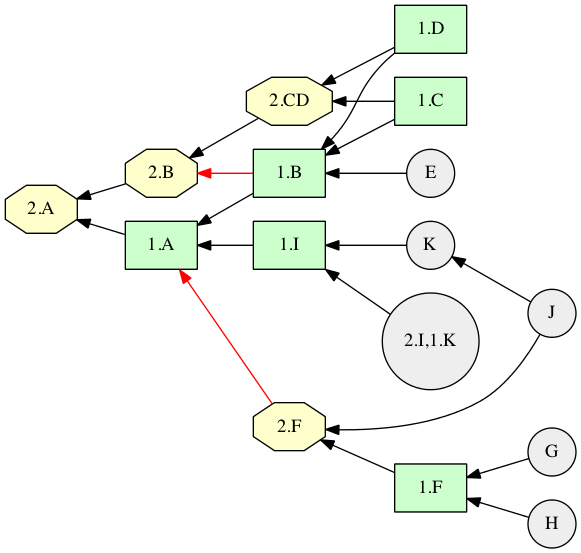
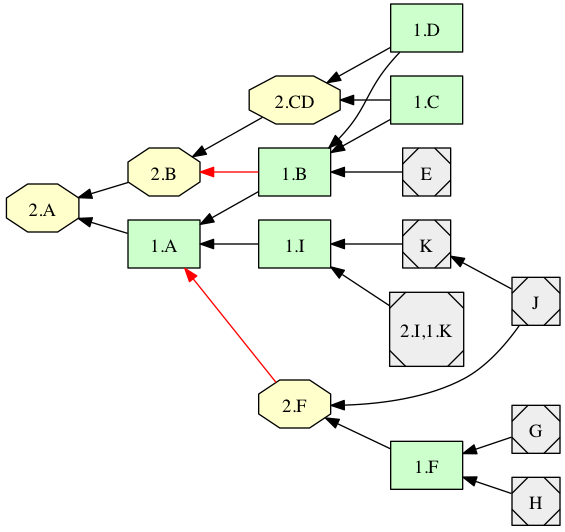
all worlds view

Changed region(s): [[0.0, 0.0, 0.9929, 0.9925]]

diff --git a/src-el/alignment.py b/src-el/alignment.py
@@ -42,6 +42,8 @@ class TaxonomyMapping:
         self.enc = encode[options.encode]      # encoding
         self.name = os.path.splitext(os.path.basename(options.inputfile))[0]
         self.taxa1name = ""
+        self.firstRcg = False
+        self.trlist = []
         if options.outputdir is None:
             options.outputdir = options.inputdir
         if not os.path.exists(options.outputdir):
@@ -359,11 +361,16 @@ class TaxonomyMapping:
         outputstr = ""
         # mirs for each pw
         if self.options.cluster: pwmirs = []
+        fAllDot = open(self.options.outputdir+self.name+"_all.dot", 'w')
         for i in range(len(pws)):
             if self.options.cluster: pwmirs.append({})
 
             # pwTm is the possible world taxonomy mapping, used for RCG
             pwTm = copy.deepcopy(self)
+            if i == 0:
+                pwTm.firstRcg = True
+            else:
+                pwTm.firstRcg = False
             if self.enc & encode["cb"]:
                 pwTm.mir = pwTm.basemir
                 pwTm.tr = []#pwTm.basetr
@@ -412,6 +419,11 @@ class TaxonomyMapping:
             if self.enc & encode["pw"] and ss == "rel" or\
                self.enc & encode["cb"] and ss == "relout":
                 pwTm.genPwRcg(name + "_" + i.__str__())
+                for e in pwTm.tr:
+                    self.trlist.append(e)
+        self.genAllPwRcg(len(pws))
+        fAllDot.close()
+        commands.getoutput("dot -Tpng "+self.options.outputdir+self.name+"_all.dot -o "+self.options.outputdir+self.name+"_all.png")
         if self.options.reduction:
             outputstr = self.uncReduction(pws)
         if pwflag:
@@ -424,7 +436,10 @@ class TaxonomyMapping:
 
     def genPwRcg(self, fileName):
         fDot = open(self.options.outputdir+fileName+".dot", 'w')
-	fDot.write("digraph {\n\nrankdir = RL\n\n")
+        fAllDot = open(self.options.outputdir+self.name+"_all.dot", 'a')
+        fDot.write("digraph {\n\nrankdir = RL\n\n")
+        if self.firstRcg:
+            fAllDot.write("digraph {\n\nrankdir = RL\n\n")
         tmpCom = ""    # cache of combined taxa
         taxa1 = ""     # cache of taxa in the first taxonomy
         taxa2 = ""     # cache of taxa in the second taxonomy
@@ -452,10 +467,11 @@ class TaxonomyMapping:
 	            tmpStr = T2 + tmpStr
             if tmpStr != "": tmpStr = "," + tmpStr
             if blueNode:
-	        tmpStr = T1s[1] + tmpStr
-	        # fDot.write("\"" + tmpStr +"\" [color=blue];\n")
+                tmpStr = T1s[1] + tmpStr
+                # fDot.write("\"" + tmpStr +"\" [color=blue];\n")
+                # fAllDot.write("\"" + tmpStr +"\" [color=blue];\n")
             else:
-	        tmpStr = T1 + tmpStr
+                tmpStr = T1 + tmpStr
             tmpCom += "  \""+tmpStr+"\"\n"
             for T2 in self.eq[T1]:
                 if self.eq.has_key(T2):
@@ -513,8 +529,16 @@ class TaxonomyMapping:
         fDot.write(taxa1)
         fDot.write("  node [shape=octagon style=\"filled\" fillcolor=\"#FFFFCC\"]\n")
         fDot.write(taxa2)
-        fDot.write("  node [shape=circle stype=\"filled\" fillcolor=\"#EEEEEE\"]\n")
+        fDot.write("  node [shape=Msquare style=\"filled\" fillcolor=\"#EEEEEE\"]\n")
         fDot.write(tmpCom)
+        fAllDot.write("  node [shape=box style=\"filled\" fillcolor=\"#CCFFCC\"]\n")
+        fAllDot.write(taxa1)
+        fAllDot.write("  node [shape=octagon style=\"filled\" fillcolor=\"#FFFFCC\"]\n")
+        fAllDot.write(taxa2)
+        fAllDot.write("  node [shape=Msquare style=\"filled\" fillcolor=\"#EEEEEE\"]\n")
+        fAllDot.write(tmpCom)
+        fAllDot.close()
+        
 
 	for [T1, T2, P] in self.tr:
 	    if(P == 0):
@@ -538,11 +562,9 @@ class TaxonomyMapping:
         #fDot.write("    A2 -> B2 [label=\"is included in (inferred)\" style=filled, color=red]\n")
         #fDot.write("    A3 -> B3 [label=\"overlaps\" dir=none, style=dashed, color=blue]\n")
         fDot.write("  }\n")
-	fDot.write("}\n")
-            
+        fDot.write("}\n")
         fDot.close()
         commands.getoutput("dot -Tpng "+self.options.outputdir+fileName+".dot -o "+self.options.outputdir+fileName+".png")
-
 
     def bottomupRemedy(self):
         first = True
@@ -1707,3 +1729,39 @@ class TaxonomyMapping:
                 return 0
             result = result | t.result
         return result
+                    
+    def remove_duplicate_string(self,li):
+        if li:
+            li.sort()
+            last = li[-1]
+            for i in range(len(li)-2, -1, -1):
+                if last == li[i]:
+                    del li[i]
+                else:
+                    last = li[i]
+
+    def genAllPwRcg(self, numOfPws):
+        rels = []
+        for [T1, T2, P] in self.trlist:
+            cnt = 0
+            for [T3, T4, P] in self.trlist:
+                if T1 == T3 and T2 == T4:
+                    cnt = cnt + 1
+            rels.append([T1, T2, cnt,""])
+        self.remove_duplicate_string(rels)
+        pointDG = (12,169,97) #dark green
+        pointDR = (118,18,18) #dark red
+        distR = pointDR[0] - pointDG[0]
+        distG = pointDR[1] - pointDG[1]
+        distB = pointDR[2] - pointDG[2]
+        for i in range(len(rels)):
+            relra = float(rels[i][2]) / float(numOfPws)
+            newPointDec = (round(pointDG[0] + distR*relra), round(pointDG[1] + distG*relra), round(pointDG[2] + distB*relra))
+            newColor = "#" + str(hex(int(newPointDec[0])))[2:] + str(hex(int(newPointDec[1])))[2:] + str(hex(int(newPointDec[2])))[2:]
+            rels[i][3] = newColor
+        # write to dot file
+        fAllDot = open(self.options.outputdir+self.name+"_all.dot", 'a')
+        for [T1, T2, cnt, color] in rels:
+            fAllDot.write("  \"" + T1 + "\" -> \"" + T2 + "\" [style=filled,label=" + str(cnt) + ",color=\"" + color + "\"];\n")
+        fAllDot.write("}\n")
+        fAllDot.close()            
